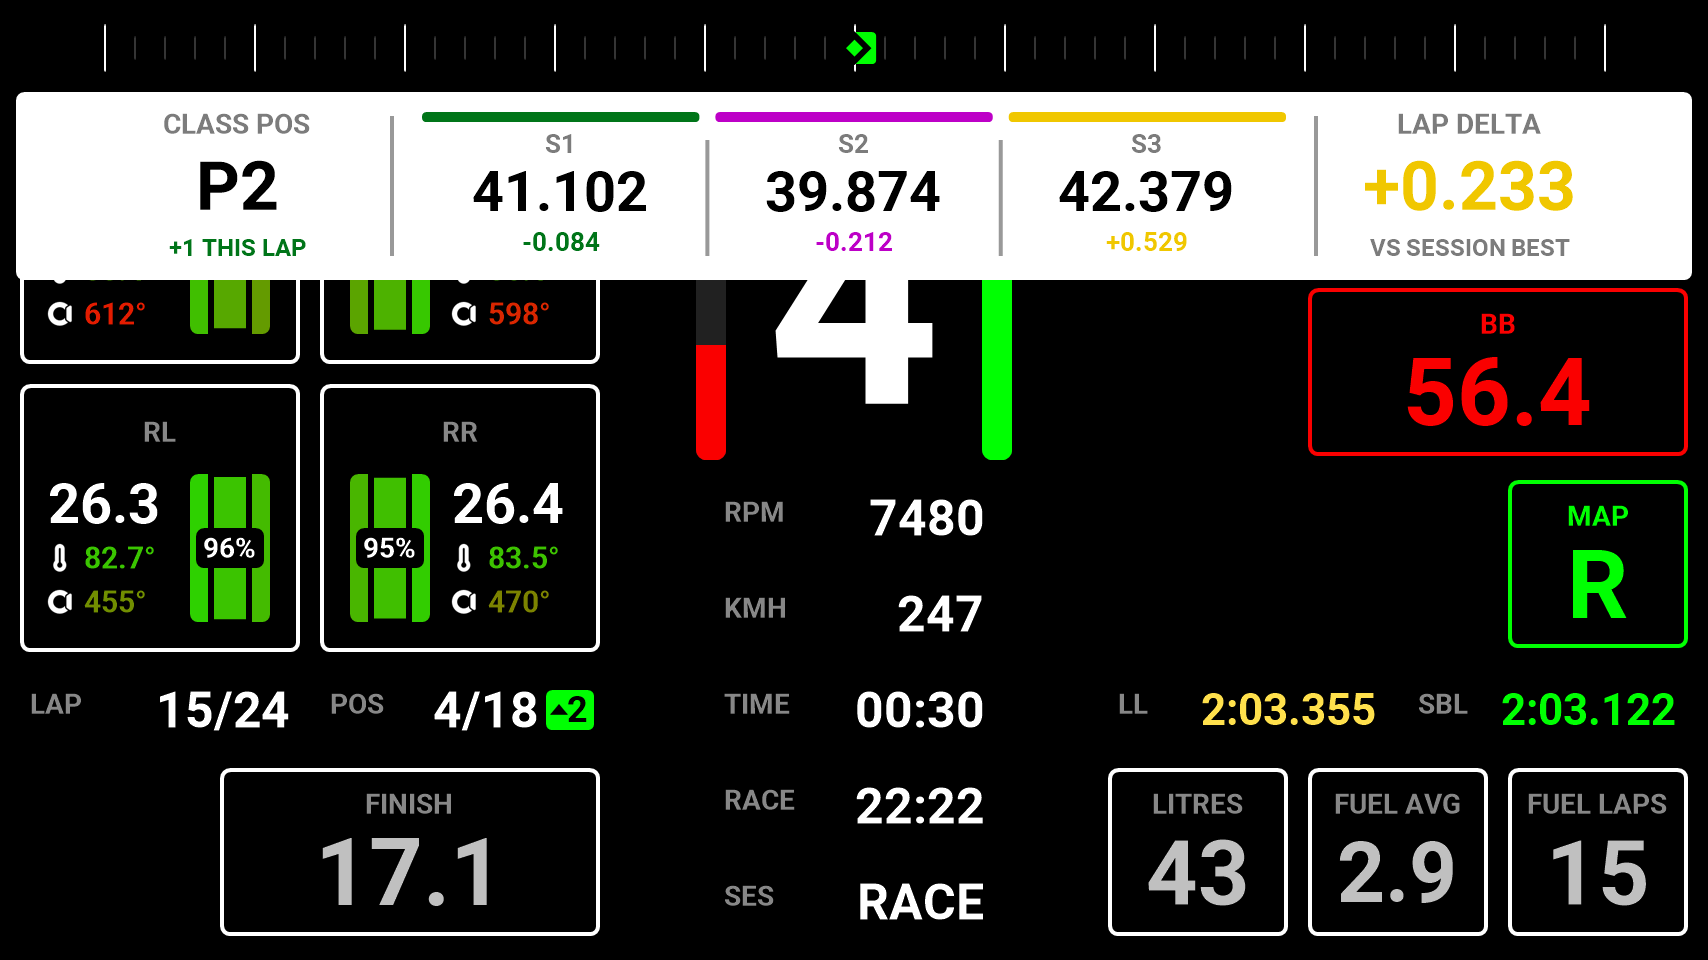
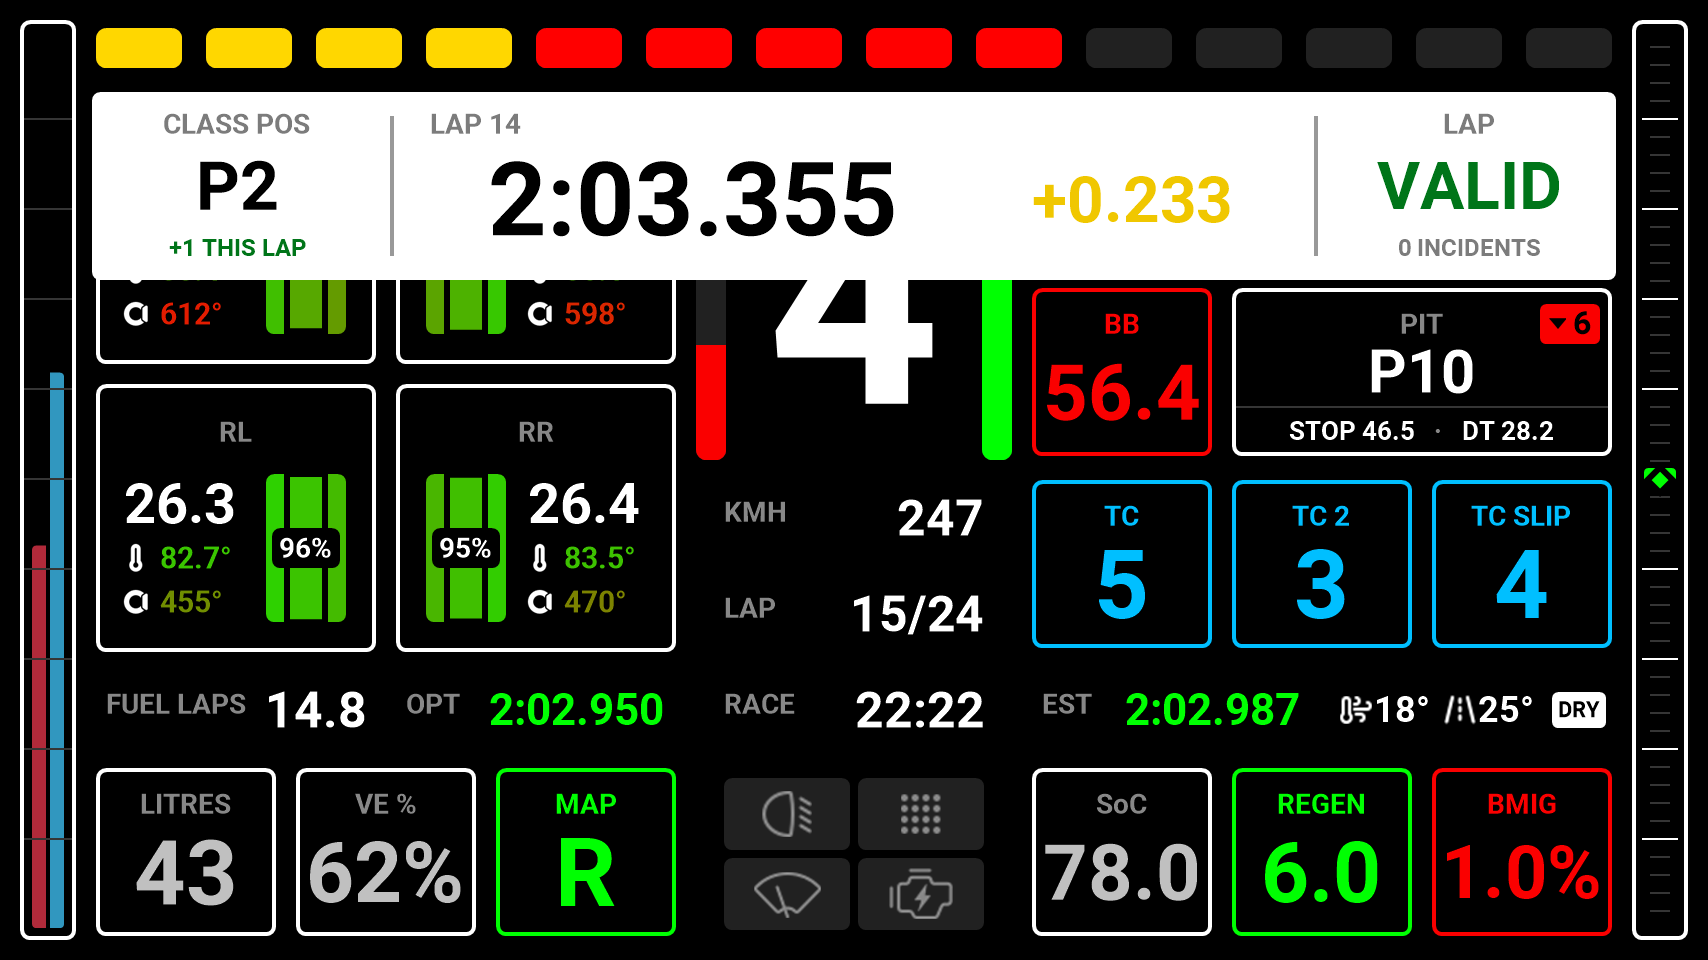
Update preset: Hypercar Endurance LMU (#8)
George's updated version, without Virtual RPM - ATSR, so it needs no extra plugins.
Three pages: Marge's Main (Practice, Race), Qualifying (Practice, Qualifying)
and a full screen animated Map (Practice, Race). Lap Review on in all sessions.

Closes #8

diff --git a/presets/hypercar-endurance-lmu/README.md b/presets/hypercar-endurance-lmu/README.md
@@ -3,18 +3,17 @@
 
 # Hypercar Endurance LMU
 
-Made for Hypercar endurance races in Le Mans Ultimate, with everything Team Hellas Vision Racing uses in long races. The Marge page's top bar uses Virtual RPM - ATSR, which needs ATSR Hub Evo.
+Made for Hypercar endurance races in Le Mans Ultimate, with everything Team Hellas Vision Racing uses in long races: a main page for practice and the race, a qualifying page and a full screen track map. No extra plugins needed.
 
-![Default Page](pages/01-default-page.png)
+![Marge's Main](pages/01-marge-s-main.png)
 
 | | |
 | --- | --- |
 | **Author** | George Margetis-HVT |
 | **Tags** | `LMU` `Hypercar` `Endurance` `16:9` |
-| **Pages** | 4: Default Page, Leaderboard, Map, Marge |
-| **Needs** | ATSR Hub Evo, for Virtual RPM - ATSR |
+| **Pages** | 3: Marge's Main, Qualifying, Map |
 | **Added** | 2026-11-11 |
-| **Updated** | 2026-11-11 |
+| **Updated** | 2026-11-13 |
 | **Preset format** | v1 |
 
 ## Import
@@ -26,54 +25,14 @@ Importing replaces the pages and layouts, the Lap Review and the Alerts & Notifi
 
 ## Pages
 
-### 1. Default Page
-![Default Page](pages/01-default-page.png)
+### 1. Marge's Main
+![Marge's Main](pages/01-marge-s-main.png)
 
 | | |
 | --- | --- |
 | **Layout** | Modular |
 | **Sessions** | Practice, Race |
-| **Topbar** | Delta |
-| **Left modules** | 2 x 2: Tire Front Left, Tire Front Right / Tire Rear Left, Tire Rear Right |
-| **Right modules** | 3 x 3: TC, TC 2, ABS / Brake Bias / Engine Map |
-| **Central column** | RPM, Speed, Session Time, Time Remaining, Session Name · Inputs · sector bar |
-| **Bottom left** | Refuel |
-| **Bottom right** | Fuel, Fuel Average, Fuel Laps Left |
-| **Data row** | Lap, Position, Last Lap, Session Best |
-
-### 2. Leaderboard
-![Leaderboard](pages/02-leaderboard.png)
-
-| | |
-| --- | --- |
-| **Layout** | Modular |
-| **Sessions** | Practice, Qualifying, Race |
-| **Topbar** | Delta |
-| **Sidebars** | Fuel (left), Linear Map (right) |
-| **Left modules** | 2 x 2: Tire Front Left, Tire Front Right / Tire Rear Left, Tire Rear Right |
-| **Right modules** | 3 x 3: TC, TC 2, ABS / Brake Bias / Engine Map |
-| **Central column** | RPM, Speed, Session Time, Time Remaining, Session Name · Inputs |
-| **Bottom left** | Fuel, Refuel |
-| **Bottom right** | Fuel Average, Fuel Time Left, Fuel Laps Left |
-| **Data row** | Lap, Position, Last Lap, Session Best |
-
-### 3. Map
-![Map](pages/03-map.png)
-
-| | |
-| --- | --- |
-| **Layout** | Full Screen: Map Static |
-| **Sessions** | Practice, Race |
-| **Topbar** | Next Race |
-
-### 4. Marge
-![Marge](pages/04-marge.png)
-
-| | |
-| --- | --- |
-| **Layout** | Modular |
-| **Sessions** | Practice, Qualifying, Race |
-| **Topbar** | Virtual RPM - ATSR |
+| **Topbar** | Virtual RPM |
 | **Sidebars** | Fuel / VE (left), Delta (right) |
 | **Left modules** | 2 x 2: Tire Front Left, Tire Front Right / Tire Rear Left, Tire Rear Right |
 | **Right modules** | 3 x 3: Refuel / Brake Bias, Pit Loss / TC, TC 2, TC Slip |
@@ -82,21 +41,46 @@ Importing replaces the pages and layouts, the Lap Review and the Alerts & Notifi
 | **Bottom right** | SoC, Regen, Brake Migration |
 | **Data row** | Fuel Laps Left, Optimal Best Lap, Estimated Lap, Weather |
 
+### 2. Qualifying
+![Qualifying](pages/02-qualifying.png)
+
+| | |
+| --- | --- |
+| **Layout** | Modular |
+| **Sessions** | Practice, Qualifying |
+| **Topbar** | Delta |
+| **Left modules** | 2 x 2: Current Lap / Last Lap |
+| **Right modules** | 3 x 3: Optimal Best Lap / Estimated Lap / Session Best |
+| **Central column** | RPM, Speed, Functions · Inputs · sector bar |
+| **Bottom left** | 5 Lap Average |
+| **Bottom right** | TC, TC 2, Brake Bias |
+| **Data row** | Overall Session Best, Class Session Best, Fuel %, VE % |
+
+### 3. Map
+![Map](pages/03-map.png)
+
+| | |
+| --- | --- |
+| **Layout** | Full Screen: Map Animated |
+| **Sessions** | Practice, Race |
+| **Topbar** | Delta |
+| **Sidebars** | Fuel / VE (left), SoC (right) |
+
 ## Lap Review
 ![Lap Review](lap-review.png)
 
 | | |
 | --- | --- |
 | **Sessions** | Practice, Qualifying, Race |
-| **Practice** | Strip 1-3-1: Lap Time, Lap Validity, Position |
-| **Qualifying** | Strip 1-3-1: Position, Sectors, Lap Delta |
-| **Race** | Strip 1-3-1: Position, Sectors, Lap Delta |
+| **Practice** | Full Screen: Sectors band / Position, Sector Deltas, Lap Validity |
+| **Qualifying** | Strip 1-3-1: Position, Lap Time, Lap Validity |
+| **Race** | Strip 1-3-1: Position, Lap Time, Lap Validity |
 | **Shows** | 3.5 s after each lap, normal colours |
 
 ## Alerts & Notifications
 | Alert | Shown as |
 | --- | --- |
-| Vehicle Settings | Strip, normal colours, 1 s |
+| Vehicle Settings | Strip, inverted, 1 s |
 | Rotary Dials | Full Screen, normal colours |
 | Pit Limiter | Small, normal colours |
 | Engine & Ignition | Full Screen, inverted |
@@ -106,7 +90,7 @@ Importing replaces the pages and layouts, the Lap Review and the Alerts & Notifi
 | Engine Warnings | Water temperature (110°), oil temperature (130°), oil pressure, fuel pressure |
 | Penalty | On |
 | Flags | On |
-| Damage | Block, 7.5 s |
+| Damage | Block, 5 s |
 
 ---
 
